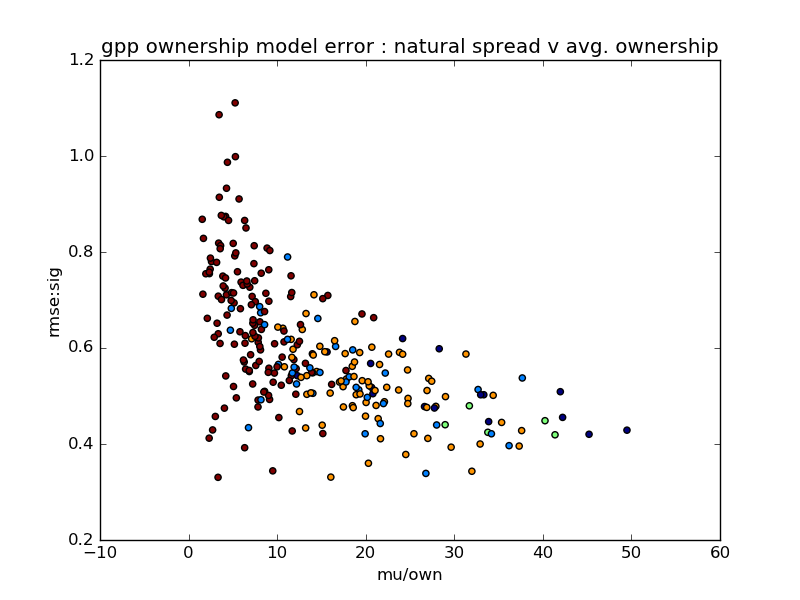
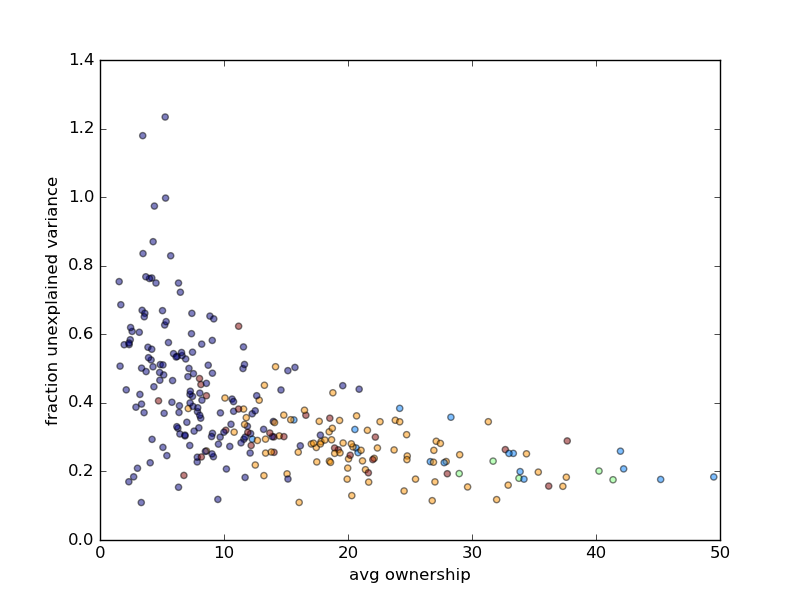
edits to readme

diff --git a/ANALYSIS/KMEANS/kmeans.py b/ANALYSIS/KMEANS/kmeans.py
@@ -25,7 +25,7 @@ def get_mats(mod_dict=None,modeltype=None,ttype ='gpp'):
 	A = pd.read_csv(path)
 	S = pd.read_csv(spath)	
 	S=S[['name','mean','std','cv_score']]
-	S['rmse:sig'] = S['cv_score']/S['std']
+	S['fraction unexplained variance'] = (S['cv_score']/S['std'])**2
 	A_pf = A.transpose()
 	A_pf.columns = A.features.values.tolist()
 	A_pf = A_pf[1:]
@@ -73,25 +73,29 @@ if __name__ == '__main__':
 	M = pd.merge(S,fdf)
 	x = M['std'].values.tolist()
 	y = M['mean'].values.tolist()
-	r = M['rmse:sig'].values.tolist()
-	plt.scatter(x,y,c = M['cluster'].values.tolist())
-	plt.xlabel('sigma/own')
-	plt.ylabel('mu/own')
-	plt.title(ttype+' avg. ownership v natural spread')
+	r = M['fraction unexplained variance'].values.tolist()
+	plt.scatter(x,y,c = M['cluster'].values.tolist(),alpha=0.5)
+	plt.xlabel('stddev ownership')
+	plt.ylabel('avg ownership')
+	plt.xlim([0,27.5])
+	plt.ylim([0,50])
+	#plt.title(ttype+' avg. ownership v natural spread')
 	plt.savefig('mu.sig.'+modeltype+'.'+ttype+'.png')
 
 	plt.clf()
-	plt.scatter(x,r,c = M['cluster'].values.tolist())
-	plt.xlabel('sigma/own')
-	plt.ylabel('rmse:sig')
-	plt.title(ttype+' ownership model error : natural error v natural spread')
+	plt.scatter(x,r,c = M['cluster'].values.tolist(),alpha=0.5)
+	plt.xlabel('stddev ownership')
+	plt.ylabel('fraction unexplained variance')
+	plt.xlim([0,27.5])
+	#plt.title(ttype+' ownership model error : natural error v natural spread')
 	plt.savefig('sig.ratio.'+modeltype+'.'+ttype+'.png')
 
 	plt.clf()
-	plt.scatter(y,r,c = M['cluster'].values.tolist())
-	plt.xlabel('mu/own')
-	plt.ylabel('rmse:sig')
-	plt.title(ttype+' ownership model error : natural spread v avg. ownership')
+	plt.scatter(y,r,c = M['cluster'].values.tolist(),alpha=0.5)
+	plt.xlabel('avg ownership')
+	plt.ylabel('fraction unexplained variance')
+	plt.xlim([0,50])
+	#plt.title(ttype+' ownership model error : natural spread v avg. ownership')
 	plt.savefig('mu.ratio.'+modeltype+'.'+ttype+'.png')
 
 	#fig = plt.figure(1, figsize=(4, 3))
